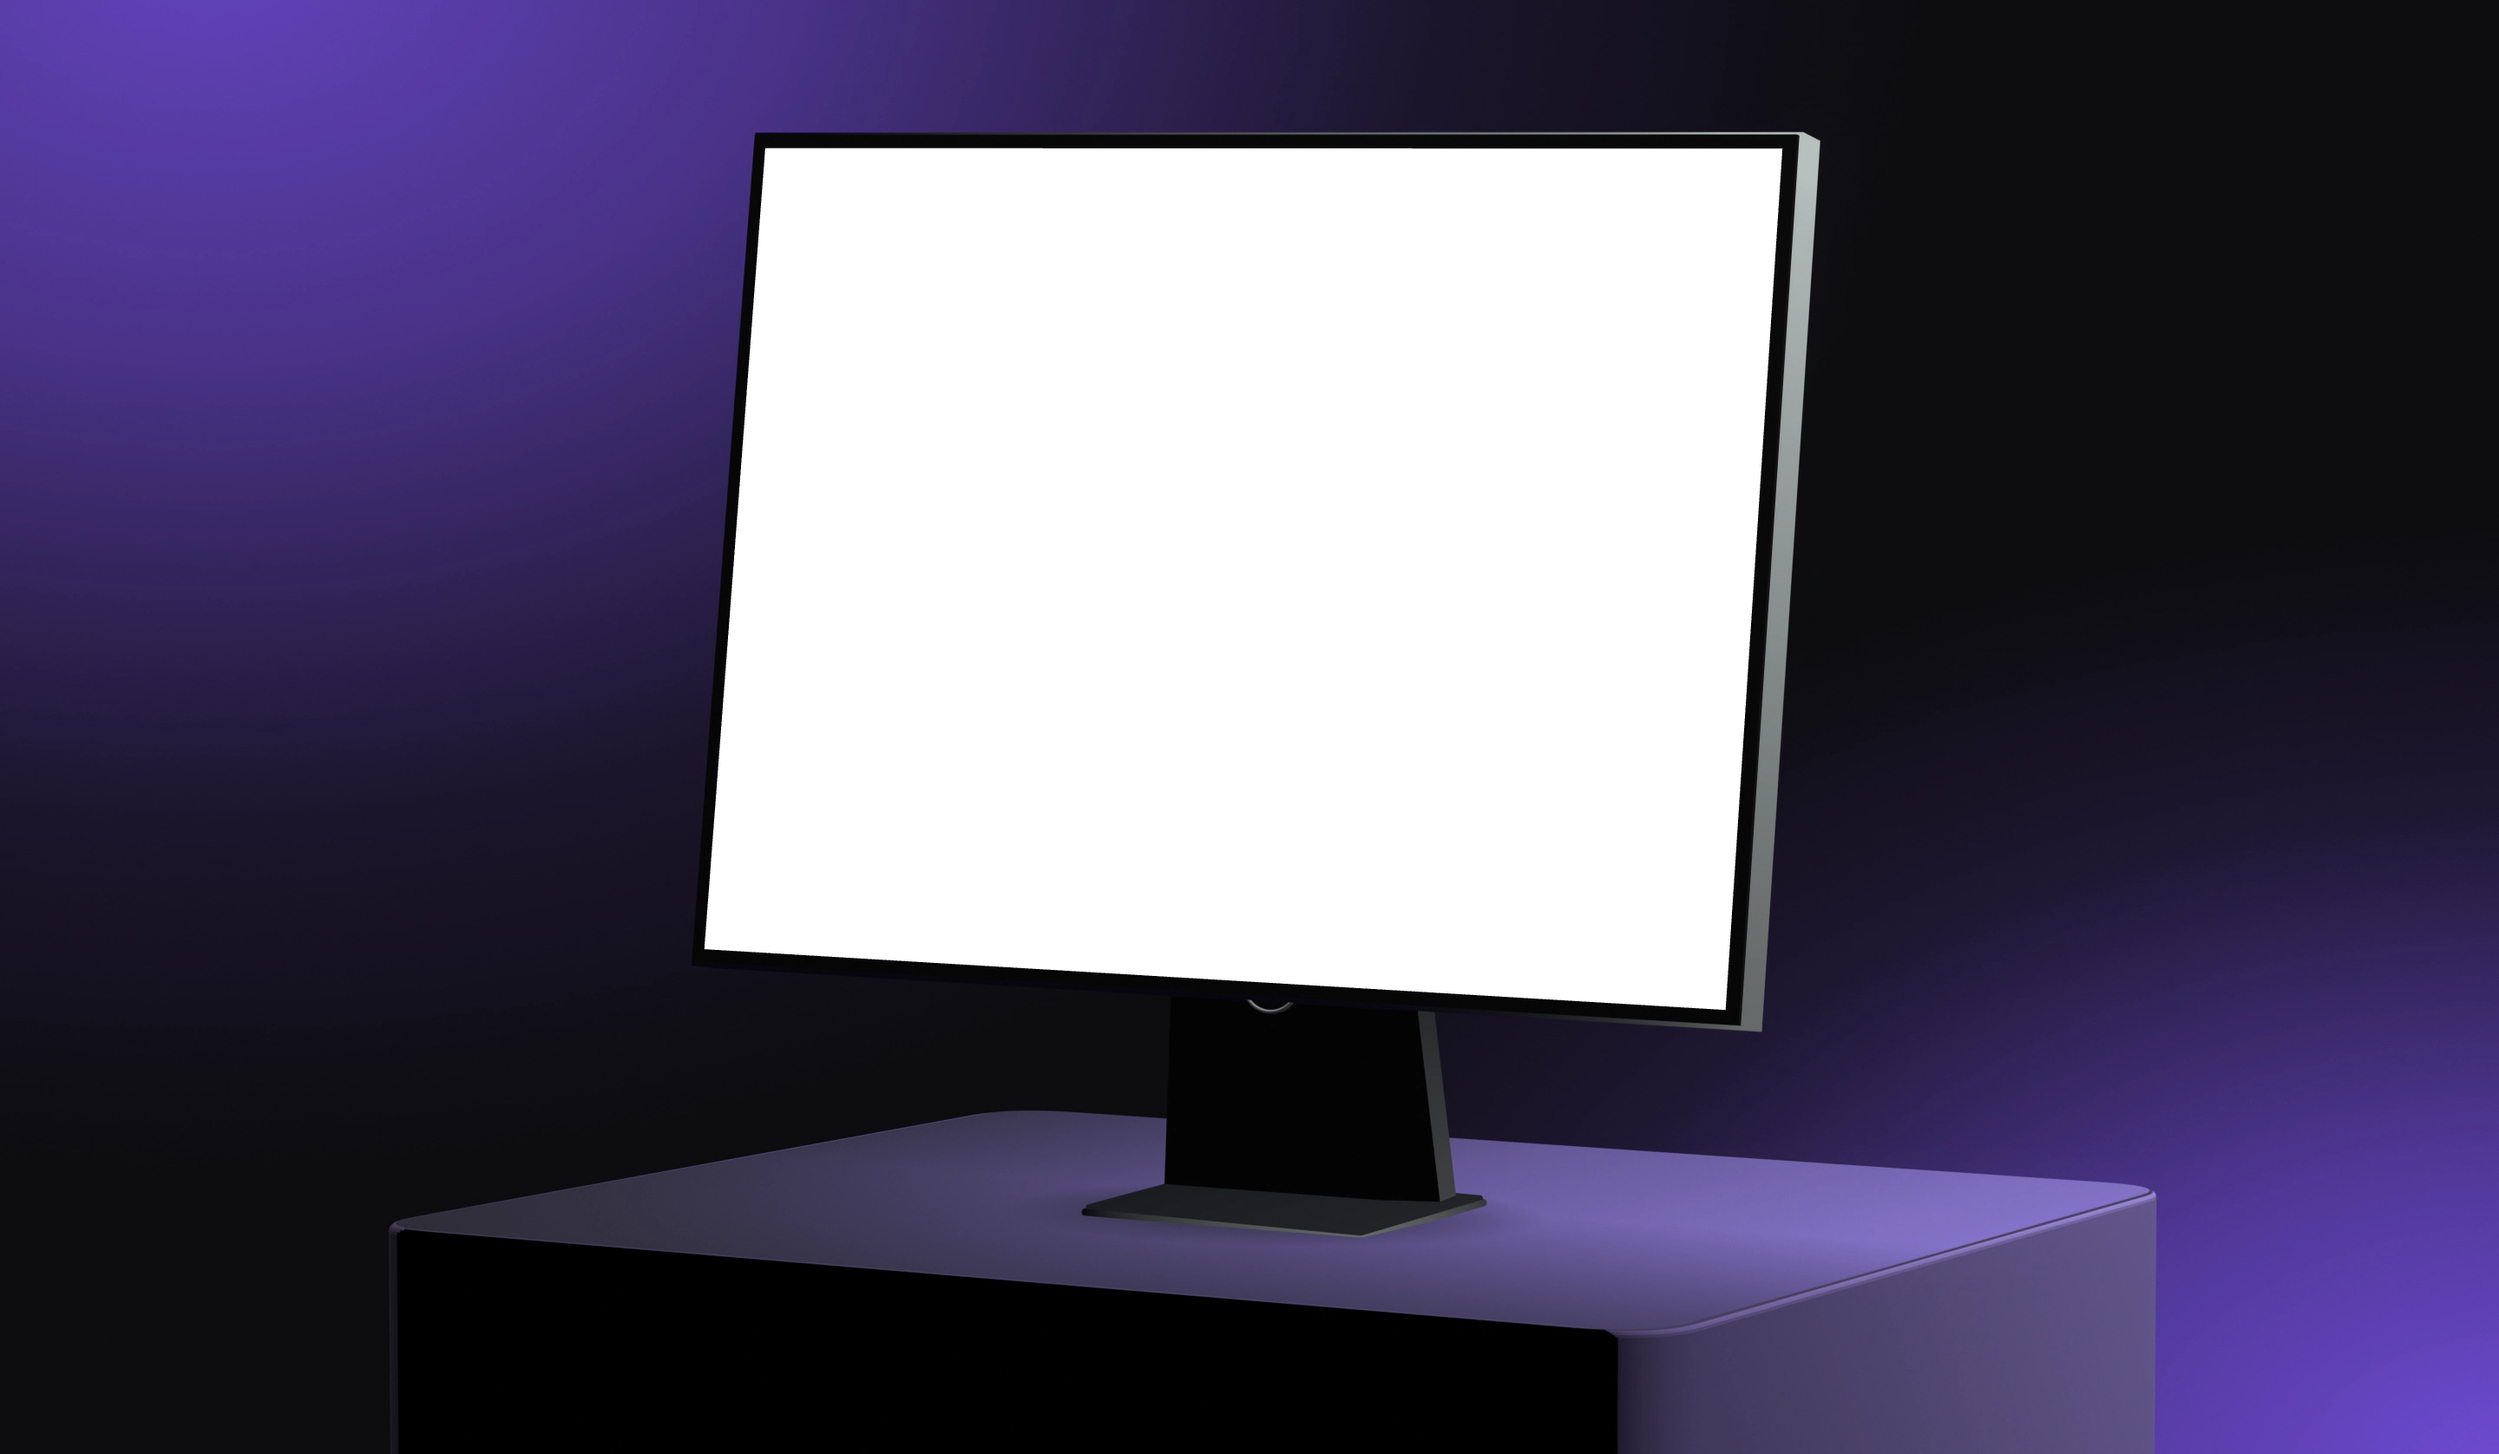
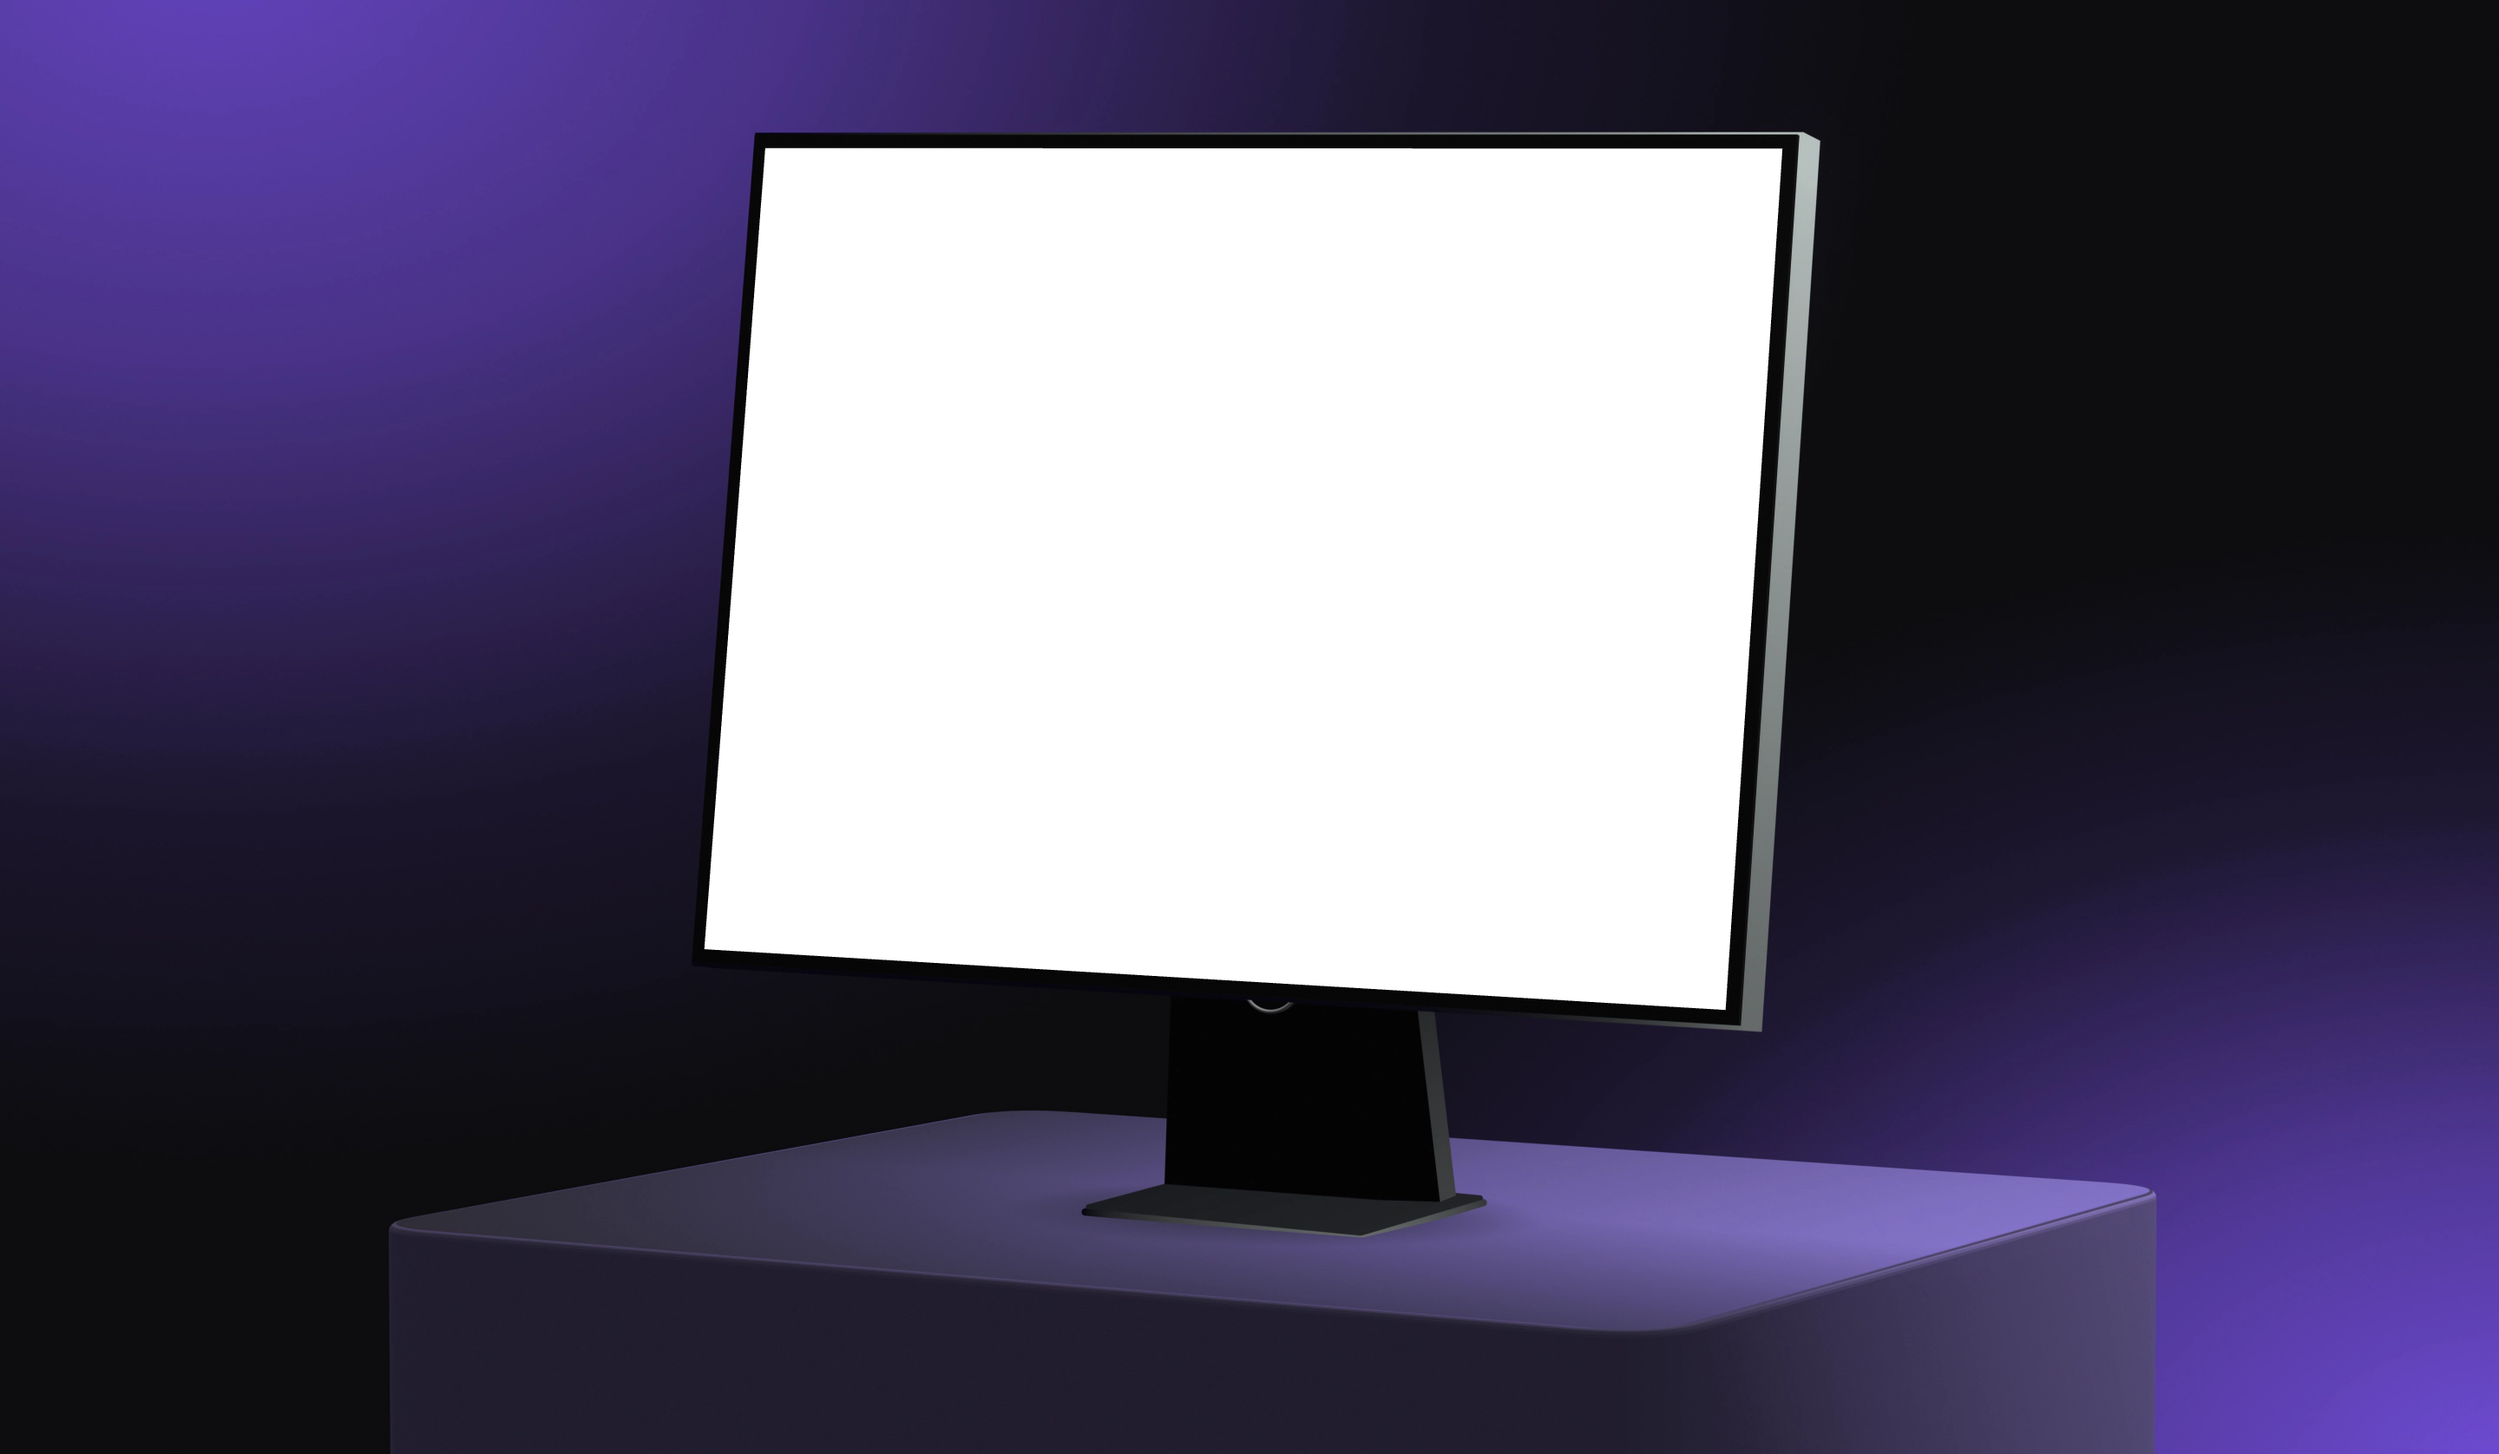
Devsign cover: fix the black plinth face, continuous light round the corner

Changed region(s): [[0.1562, 0.8377, 0.8438, 1.0]]

diff --git a/scripts/cover-3d/scene.html b/scripts/cover-3d/scene.html
@@ -20,10 +20,10 @@ const g=new THREE.ExtrudeGeometry(sh2,{depth:pl[1],bevelEnabled:true,bevelThickn
 const tex=(n,draw)=>{const c=document.createElement('canvas');c.width=c.height=n;draw(c.getContext('2d'),n);const t=new THREE.CanvasTexture(c);t.wrapS=t.wrapT=THREE.RepeatWrapping;return t};
 const grain=tex(1024,(x,n)=>{const d=x.createImageData(n,n);for(let i=0;i<d.data.length;i+=4){const v=118+Math.random()*20;d.data[i]=d.data[i+1]=d.data[i+2]=v;d.data[i+3]=255}x.putImageData(d,0,0)});grain.repeat.set(1.2,1.2);
 const yb=g.attributes.position,col=new Float32Array(yb.count*3),uv=g.attributes.uv;let miny=1e9,maxy=-1e9;for(let i=0;i<yb.count;i++){const y=yb.getY(i);miny=Math.min(miny,y);maxy=Math.max(maxy,y)}
-for(let i=0;i<yb.count;i++){const t=(yb.getY(i)-miny)/(maxy-miny),x=yb.getX(i)/pl[0]+.5,z=yb.getZ(i)/pl[2]+.5;const sx=Math.min(1,Math.max(0,(x-.9)/.1)),lit=sx*sx*(3-2*sx)*(.3+.7*t)*(P.sideLit||0)*(P.sideFall?Math.pow(1-z,P.sideFall):1);const v=t>.999?1:Math.pow(t,7)*(P.bevel??.85)+(P.sideBase??.12)+lit;col[i*3]=col[i*3+1]=col[i*3+2]=v}g.setAttribute('color',new THREE.BufferAttribute(col,3));
+for(let i=0;i<yb.count;i++){const t=(yb.getY(i)-miny)/(maxy-miny),x=yb.getX(i)/pl[0]+.5,z=yb.getZ(i)/pl[2]+.5;const sx=Math.min(1,Math.max(0,(x-.9)/.1)),lit=sx*sx*(3-2*sx)*(.3+.7*t)*(P.sideLit||0)*(P.sideFall?Math.pow(Math.max(0,1-z),P.sideFall):1);const v=t>.999?1:Math.pow(t,7)*(P.bevel??.85)+(P.sideBase??.12)+lit;col[i*3]=col[i*3+1]=col[i*3+2]=v}g.setAttribute('color',new THREE.BufferAttribute(col,3));
 const topm=M(P.plc,1),sidem=M(P.pls,1);
 topm.map=tex(1024,(x,n)=>{const g=x.createLinearGradient(0,0,n,0);g.addColorStop(0,`rgb(${P.tl??128},${P.tl??128},${P.tl??128})`);g.addColorStop(.5,`rgb(${P.tm??186},${P.tm??186},${P.tm??186})`);g.addColorStop(1,'rgb(255,255,255)');x.fillStyle=g;x.fillRect(0,0,n,n);const d=x.createRadialGradient(n*(P.cx??.52),n*(P.cy??.82),0,n*(P.cx??.52),n*(P.cy??.82),n*(P.cr??.42));d.addColorStop(0,`rgba(0,0,0,${P.contact??.3})`);d.addColorStop(1,'rgba(0,0,0,0)');x.fillStyle=d;x.fillRect(0,0,n,n);if(P.front){const f=x.createLinearGradient(0,0,0,n);f.addColorStop(0,`rgba(0,0,0,${P.front})`);f.addColorStop(.55,'rgba(0,0,0,0)');f.addColorStop(1,'rgba(0,0,0,0)');x.fillStyle=f;x.fillRect(0,0,n,n)}});topm.map.colorSpace=THREE.SRGBColorSpace;topm.map.repeat.set(1/pl[0],1/pl[2]);topm.map.offset.set(.5,.5);
-for(const m of [topm,sidem]){m.vertexColors=true;m.bumpMap=grain;m.bumpScale=P.bump??.1;m.envMapIntensity=0}
+if(P.sideGlow){sidem.emissive=new THREE.Color(P.pls);sidem.emissiveIntensity=P.sideGlow}for(const m of [topm,sidem]){m.vertexColors=true;m.bumpMap=grain;m.bumpScale=P.bump??.1;m.envMapIntensity=0}
 const o=new THREE.Mesh(g,[topm,sidem]);o.position.set(P.px||0,P.py,P.pz||0);o.rotation.y=P.pyaw;o.rotation.x=P.ptilt;o.castShadow=false;o.receiveShadow=false;s.add(o);}
 const mon=new THREE.Group();mon.position.set(...P.mon);mon.rotation.x=P.tilt;rig.add(mon);
 const sw=1.92,sh=1.43,bz=P.bz||.022,th=.085,bw=sw+bz*2,bh=sh+bz*2;
